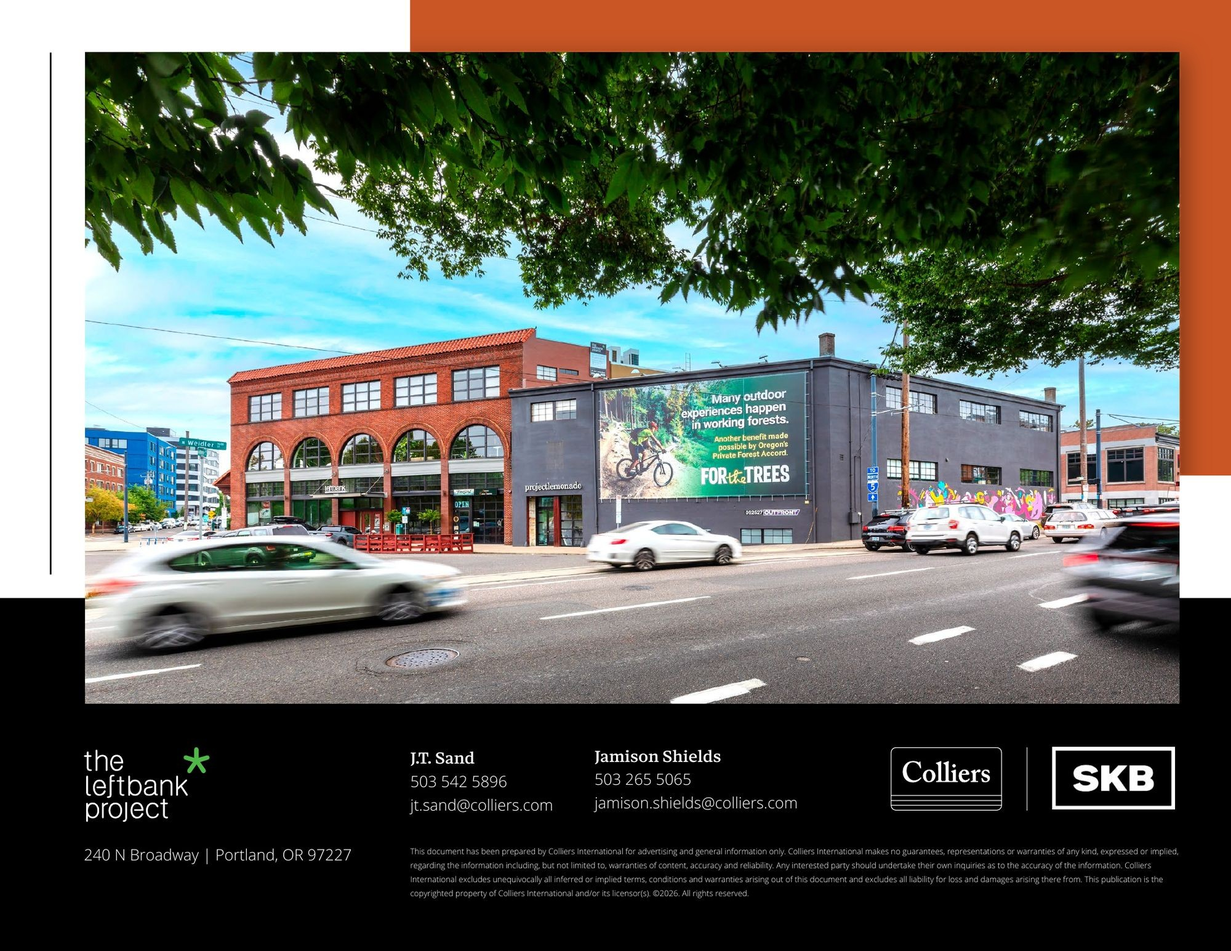
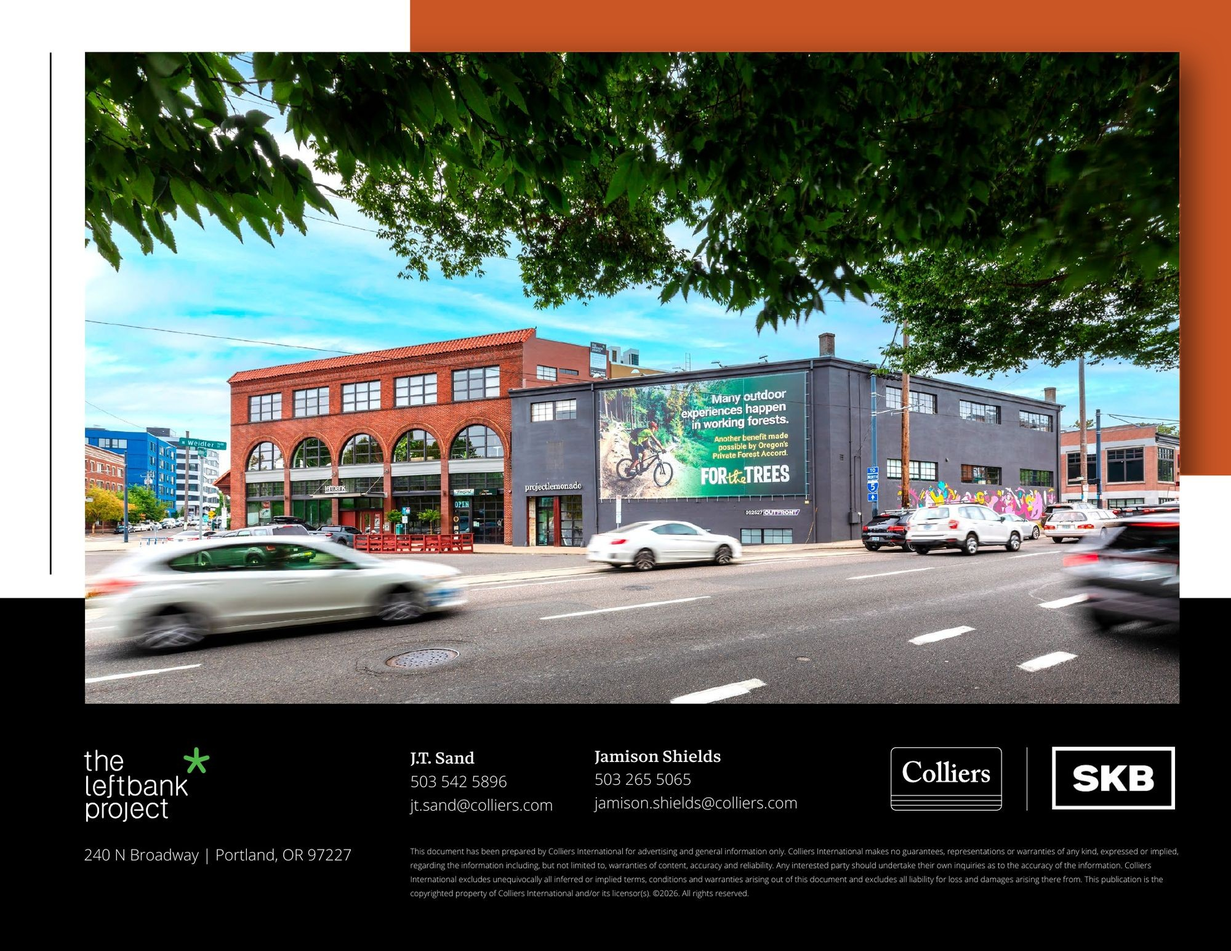
Leftbank: stronger, clearly visible drop shadow on the brochure pages' orange blocks

Changed region(s): [[0.961, 0.0621, 0.992, 0.4971]]

diff --git a/work/leftbank.html b/work/leftbank.html
@@ -16,7 +16,7 @@
 <div class="g12"><h1 class="case-title t3 c1-8">The Leftbank Project</h1><p class="bl c8-13">A digital leasing brochure for a historic creative-office block in the heart of Albina.</p></div></section><div class="case-hero" style="aspect-ratio:1448/920" data-name="Hero Mockup"><img src="../assets/img/leftbank/hero.jpg?v=678d3b0d" alt="The Leftbank Project — hero mockup" width="1448" height="920" decoding="async"></div><section class="wrap case-meta" data-name="Meta"><div class="meta-row"><div><span class="mono-s muted">[Client]</span><span class="bm">Colliers</span></div><div><span class="mono-s muted">[Type]</span><span class="bm">Digital Leasing Brochure</span></div><div><span class="mono-s muted">[Location]</span><span class="bm">Portland, OR</span></div><div><span class="mono-s muted">[Year]</span><span class="bm">2026</span></div><div><span class="mono-s muted">[Role]</span><span class="bm">Graphic Designer</span></div></div></section><section class="dark psr" data-name="Project / Solution / Results">
 <div class="blk"><div class="lab"><span class="mono muted">[01]</span><span class="s">Project</span></div><div class="txt"><p class="s">The Leftbank Building at 240 N Broadway is a 1923 A.E. Doyle design and one of only three remaining original buildings from Portland’s Albina neighborhood — a former warehouse whose nearly 100-year history runs through hospitality, manufacturing and music, including the Dude Ranch jazz club. Colliers needed a digital leasing brochure to market office and creative spaces from 500 to 6,500+ SF to tenants and their brokers: lead with the character of a seismically retrofitted landmark, and show a neighborhood on the rise.</p></div></div>
 <div class="blk"><div class="lab"><span class="mono muted">[02]</span><span class="s">Solution</span></div><div class="txt"><p class="bl">A landscape brochure that lets the building’s own materials carry it: brick, timber, vaulted ceilings and oversized windows in full-bleed photography, framed by black panels and a burnt-orange accent drawn from the brick. Corsario’s warm serif headlines give it a sense of history, Open Sans keeps the details plain, and a row of simple line icons turns the six key amenities — seismic retrofit, the warehouse-to-office conversion, an on-site café, Energy Star certification, the ceilings and windows, and transit, bike and parking access — into a scannable strip.</p><p class="bl">The pages move from the building outward: the cover and its amenity strip, the history spread, the spaces, a local-amenities map with bike and transit scores of 95 and 81, then an aerial of Lower Albina that maps the revitalization around the block — Albina Vision Trust, the I-5 Rose Quarter project, the Moda Center renovation and Lloyd Center redevelopment — before closing on the street view and the leasing team.</p></div></div>
-</section><section class="case-gallery white" data-name="Gallery"><div class="wrap cg8"><div class="cg-col"><div class="g-block"><div class="g-head"><h2 class="ci-h">Design system</h2></div><div class="gallery"><div class="swatches"><div class="col gap8"><div class="sw" style="background:#CB5625"></div><span class="mono-s">Burnt Orange</span><span class="mono-s muted">#CB5625</span></div><div class="col gap8"><div class="sw" style="background:#000000"></div><span class="mono-s">Black</span><span class="mono-s muted">#000000</span></div><div class="col gap8"><div class="sw" style="background:#50B848"></div><span class="mono-s">Leaf Green</span><span class="mono-s muted">#50B848</span></div><div class="col gap8"><div class="sw" style="background:#ECEBF0"></div><span class="mono-s">Map Grey</span><span class="mono-s muted">#ECEBF0</span></div><div class="col gap8"><div class="sw" style="background:#FFFFFF"></div><span class="mono-s">White</span><span class="mono-s muted">#FFFFFF</span></div></div></div></div><div class="g-block"><div class="g-head"><h2 class="ci-h">The brochure</h2></div><div class="gallery"><div class="g-row"><figure class="pic" style="flex:1.2945 1 0"><img src="../assets/img/leftbank/brochure_front.jpg?v=3b4fa421" alt="Front page" width="2000" height="1545" decoding="async"></figure><figure class="pic" style="flex:1.2945 1 0"><img src="../assets/img/leftbank/brochure_back.jpg?v=becd9262" alt="Back page" width="2000" height="1545" decoding="async"></figure></div></div></div><div class="g-block"><div class="g-head"><h2 class="ci-h">Inside the brochure</h2><p class="bm muted">Seven pages, in the order a prospective tenant reads them — the building, its history, the spaces, the neighborhood and what is changing around it. Swipe through them on the iPad.</p></div><div class="tab-stage" data-name="iPad viewer"><div class="tab-wrap"><div class="tab"><div class="tab-glass"><span class="tab-cam" aria-hidden="true"></span>
+</section><section class="case-gallery white" data-name="Gallery"><div class="wrap cg8"><div class="cg-col"><div class="g-block"><div class="g-head"><h2 class="ci-h">Design system</h2></div><div class="gallery"><div class="swatches"><div class="col gap8"><div class="sw" style="background:#CB5625"></div><span class="mono-s">Burnt Orange</span><span class="mono-s muted">#CB5625</span></div><div class="col gap8"><div class="sw" style="background:#000000"></div><span class="mono-s">Black</span><span class="mono-s muted">#000000</span></div><div class="col gap8"><div class="sw" style="background:#50B848"></div><span class="mono-s">Leaf Green</span><span class="mono-s muted">#50B848</span></div><div class="col gap8"><div class="sw" style="background:#ECEBF0"></div><span class="mono-s">Map Grey</span><span class="mono-s muted">#ECEBF0</span></div><div class="col gap8"><div class="sw" style="background:#FFFFFF"></div><span class="mono-s">White</span><span class="mono-s muted">#FFFFFF</span></div></div></div></div><div class="g-block"><div class="g-head"><h2 class="ci-h">The brochure</h2></div><div class="gallery"><div class="g-row"><figure class="pic" style="flex:1.2945 1 0"><img src="../assets/img/leftbank/brochure_front.jpg?v=cd866fd2" alt="Front page" width="2000" height="1545" decoding="async"></figure><figure class="pic" style="flex:1.2945 1 0"><img src="../assets/img/leftbank/brochure_back.jpg?v=1106d001" alt="Back page" width="2000" height="1545" decoding="async"></figure></div></div></div><div class="g-block"><div class="g-head"><h2 class="ci-h">Inside the brochure</h2><p class="bm muted">Seven pages, in the order a prospective tenant reads them — the building, its history, the spaces, the neighborhood and what is changing around it. Swipe through them on the iPad.</p></div><div class="tab-stage" data-name="iPad viewer"><div class="tab-wrap"><div class="tab"><div class="tab-glass"><span class="tab-cam" aria-hidden="true"></span>
 <div class="tab-screen" tabindex="0" role="region" aria-roledescription="carousel" aria-label="The Leftbank Project digital brochure, 7 pages"><div class="tab-track"><figure class="tab-page cur" role="group" aria-roledescription="page" aria-label="Page 1 of 7"><img src="../assets/img/leftbank/sheets/s01.jpg" alt="The Leftbank Project digital brochure — page 1" draggable="false"></figure><figure class="tab-page" role="group" aria-roledescription="page" aria-label="Page 2 of 7" aria-hidden="true"><img src="../assets/img/leftbank/sheets/s02.jpg" alt="The Leftbank Project digital brochure — page 2" draggable="false"></figure><figure class="tab-page" role="group" aria-roledescription="page" aria-label="Page 3 of 7" aria-hidden="true"><img data-src="../assets/img/leftbank/sheets/s03.jpg" alt="The Leftbank Project digital brochure — page 3" draggable="false"></figure><figure class="tab-page" role="group" aria-roledescription="page" aria-label="Page 4 of 7" aria-hidden="true"><img data-src="../assets/img/leftbank/sheets/s04.jpg" alt="The Leftbank Project digital brochure — page 4" draggable="false"></figure><figure class="tab-page" role="group" aria-roledescription="page" aria-label="Page 5 of 7" aria-hidden="true"><img data-src="../assets/img/leftbank/sheets/s05.jpg" alt="The Leftbank Project digital brochure — page 5" draggable="false"></figure><figure class="tab-page" role="group" aria-roledescription="page" aria-label="Page 6 of 7" aria-hidden="true"><img data-src="../assets/img/leftbank/sheets/s06.jpg" alt="The Leftbank Project digital brochure — page 6" draggable="false"></figure><figure class="tab-page" role="group" aria-roledescription="page" aria-label="Page 7 of 7" aria-hidden="true"><img data-src="../assets/img/leftbank/sheets/s07.jpg" alt="The Leftbank Project digital brochure — page 7" draggable="false"></figure></div></div></div></div></div>
 <div class="tab-controls"><button class="tab-btn tab-prev" aria-label="Previous page" disabled>←</button><span class="mono tab-counter" aria-live="polite">Page 01 / 07</span><button class="tab-btn tab-next" aria-label="Next page">→</button></div>
 <div class="tab-dots" aria-hidden="true"><i class="on"></i><i></i><i></i><i></i><i></i><i></i><i></i></div>

diff --git a/_src/leftbank_round.py b/_src/leftbank_round.py
@@ -11,7 +11,7 @@ UPLOAD = '/workspace/uploads/leftbank-desk-mockup-new.jpg'
 HERO_BOX = (0, 50, 1448, 970)   # tablet top ~y85, map sheet bottom ~y955 of 1086: nothing cut
 ORANGE = np.array([202, 86, 37])
 
-def shadowed(src, out, off=(8, 11), blur=18, k=0.38):
+def shadowed(src, out, off=(16, 20), blur=24, k=0.62):
     a = np.asarray(Image.open(src).convert('RGB')).astype(np.float32); H, W = a.shape[:2]
     o = np.abs(a - ORANGE).sum(2) < 30
     rows, cols = o.sum(1), o.sum(0)

diff --git a/CLAUDE-HANDOFF.md b/CLAUDE-HANDOFF.md
@@ -186,7 +186,7 @@ ruled meta row → dark [01] Project / [02] Solution / [03] Results → body →
 | `the-grid` | The Grid (Kirkland 405), Naming & Brand Identity, 2025 | `Kirkland Brand Design/` deck | Grid Grey #777C80, Stone #EAE7E3, Silver #BABABA, Graphite #1D1D1F, White | Card + hero = Lauren's entrance-wall mockup (the logo at a building entrance); vector logos; Open Sans | Nothing blurred; client feedback paraphrased, no names. Results = the client confirmed The Grid (sourced) |
 | `pacific-center` | Pacific Center, Leasing Brochure, 2026 | `PacificCenter-Flyer.pdf` | Navy #212B3B, Slate Blue #435774, Taupe #D7CBC4, Umber #583117, White | Poster hero; open-spread mockup; 12-page portrait flip-book | No financials; all pages shown — **Nov 24 (t99u):** hero = open "In the heart of downtown" spread behind the closed cover on WHITE (`_src/pacific_mock.py`, like the Nomad mockup); home/works/next-project card (t100u) = the same pair on a cool concrete desk with its front edge visible (`desk_card()`, cool greys to sit beside The Grid card); the open-spread mockup under "The printed brochure" was replaced by `book_fan.jpg` (amenities/highlights/neighborhood spreads fanned on stone); cover/back row and flip-book unchanged — **Nov 24 round 2 (t101u), supersedes the above:** hero + home/works/next-project card = Rodrigo's own desk mockup `uploads/pacific-desk-mockup-new.png` (cover + Highlights spread on concrete by a window), used as provided (card = 1440×1080 resize; hero = crop y 70–980, shown in a 1448:910 frame via build.py `HERO_RATIO`, so the book is whole); `book_fan.jpg` removed; "The printed brochure" keeps only the front/back cover row. The generated white hero and desk card in `pacific_mock.py` are no longer used |
 | `madison-plaza` | Madison Plaza, Investor Offering Package, 2026 | `Madison Plaza_OM V25-compressed.pdf` + Rodrigo's hero | Raspberry #B0144A, Crimson #A41D41, Plum Charcoal #37272C, Warm Grey #ACA5A8, White | **Hero = Rodrigo's white original, never change it** (`.case-hero.fit`). Wide home card on textured stone, pages pure white, **nothing blurred** (approved exception). Swatches → printed book → flip-book | Financial pages (PDF 13–17) omitted behind a black spread; financial lines blurred **inside** the flip-book (incl. the phone/opex paragraph) |
-| `leftbank` | The Leftbank Project, Digital Leasing Brochure, 2026 | `Leftbank_Flyer.pdf` | Burnt Orange #CB5625, Black, Leaf Green #50B848, Map Grey #ECEBF0, White | Scene mockup; iPad, all 7 pages | Nothing blurred — **Nov 24 (t102u):** hero + home/works/next-project card = Rodrigo's own desk mockup `uploads/leftbank-desk-mockup-new.jpg` (tablet with the cover + printed Local Amenities map), used as provided (card = 1440×1080 resize; hero = crop y 50–970, shown in a 1448:920 frame via build.py `HERO_RATIO`); "The brochure" now uses `brochure_front/back.jpg` = sheets s01/s07 with a soft drop shadow cast onto the orange offset block only (`_src/leftbank_round.py`); the iPad viewer keeps the plain sheets |
+| `leftbank` | The Leftbank Project, Digital Leasing Brochure, 2026 | `Leftbank_Flyer.pdf` | Burnt Orange #CB5625, Black, Leaf Green #50B848, Map Grey #ECEBF0, White | Scene mockup; iPad, all 7 pages | Nothing blurred — **Nov 24 (t102u):** hero + home/works/next-project card = Rodrigo's own desk mockup `uploads/leftbank-desk-mockup-new.jpg` (tablet with the cover + printed Local Amenities map), used as provided (card = 1440×1080 resize; hero = crop y 50–970, shown in a 1448:920 frame via build.py `HERO_RATIO`); "The brochure" now uses `brochure_front/back.jpg` = sheets s01/s07 with a soft drop shadow cast onto the orange offset block only (`_src/leftbank_round.py`; t103u: strengthened to offset 16/20 px, blur 24, 62% after Rodrigo found v1 too faint); the iPad viewer keeps the plain sheets |
 | `nomad` | Nomad, Investor Offering Package, 2026 | `Nomad OM-digital.pdf` (29 PDF pages: PDF 1 cover, PDF 2–28 spreads = printed pp. 2n−2/2n−1, PDF 29 back cover = p. 56) + `uploads/nomad-main-mockup-new.jpg` | Signal Red #FF343B, Orange #FF7B21, Sun Yellow #FFC55E, Charcoal #3C3839, White | All from `_src/nomad_book.py` (Nov 24, t97u): hero = Rodrigo's mockup on white, only the empty margin trimmed to 16:9; home/works/next-project card (4:3) = the same mockup on white, side margins trimmed (t98u); printed book = 3 self-made top-down mockups on stone (`book_a/b/c.jpg`: 03 Market Overview + cover; back cover + Overlook spread; three inside spreads), gutter shadow + page-stack edges; flip-book = 52 pages (cover, pp. 2–49, black spread for pp. 50–55, back cover), counter shows printed folios (`data-total=56`). Maps & data section removed | Printed pp. 50–55 (PDF 26–28 pro forma/financials) omitted. Blurred: the subject's average rent (p9), the development-cost table (pp. 10–11), all rent figures in the rent comps (pp. 44–47); blur boxes come from the PDF's own word boxes (every word with a currency sign) |
 | `springwood` | Springwood of Beaverton, Digital Offering Memorandum, 2026 | `Springwood OM-draft9.pdf` | Charcoal #2C3132, Deep Teal #285D64, Teal #347179, Mist #F8F5F8, White | Scene mockup; iPad, PDF 1–13, 16, 18–22 + black screens | Cover average-rent figure, lot-rent range, rent-upside paragraph, tax figure blurred; financial overview + rent comps omitted |
 | `mauzey-court` | 8210 Mauzey Court, Digital Offering Memorandum, Hillsboro OR, 2026 (title/year pending) | `uploads/MauzeyCourt-Hillsboro-OM.pdf` | Deep Teal #004E61, Teal #00666D, Aqua #00A195, Seafoam #9FDDC5, White | **Same as PDX**: cover over back cover on stone (hero/card), mock_cover, mock_spread; iPad, sheets = PDF 1–6, 8–16 | p3 price/NOI line and p4 price row blurred; p7 lease abstract = black screen. Three figures shown pending Rodrigo (§9) |
@@ -267,7 +267,8 @@ Blue, Madison wide, Nomad square); Marketplace sections; "Results stay `[[ ]]`".
 
 | Commit | Summary |
 |---|---|
-| (Nov 24) | Leftbank: desk mockup = hero + card; soft shadow on the brochure pages' orange blocks |
+| (Nov 24) | Leftbank: brochure shadow made clearly visible (t103u) |
+| `c2cba60` | Leftbank: desk mockup = hero + card; soft shadow on the brochure pages' orange blocks |
 | `dece495` | Pacific round 2: Rodrigo's desk mockup = hero + card; fanned spreads removed |
 | `1b48689` | Pacific card = brochure on a cool concrete desk (pairs with The Grid) |
 | `c2b8898` | Pacific: hero + card = spread + cover on white; printed brochure = fanned spreads on stone |
